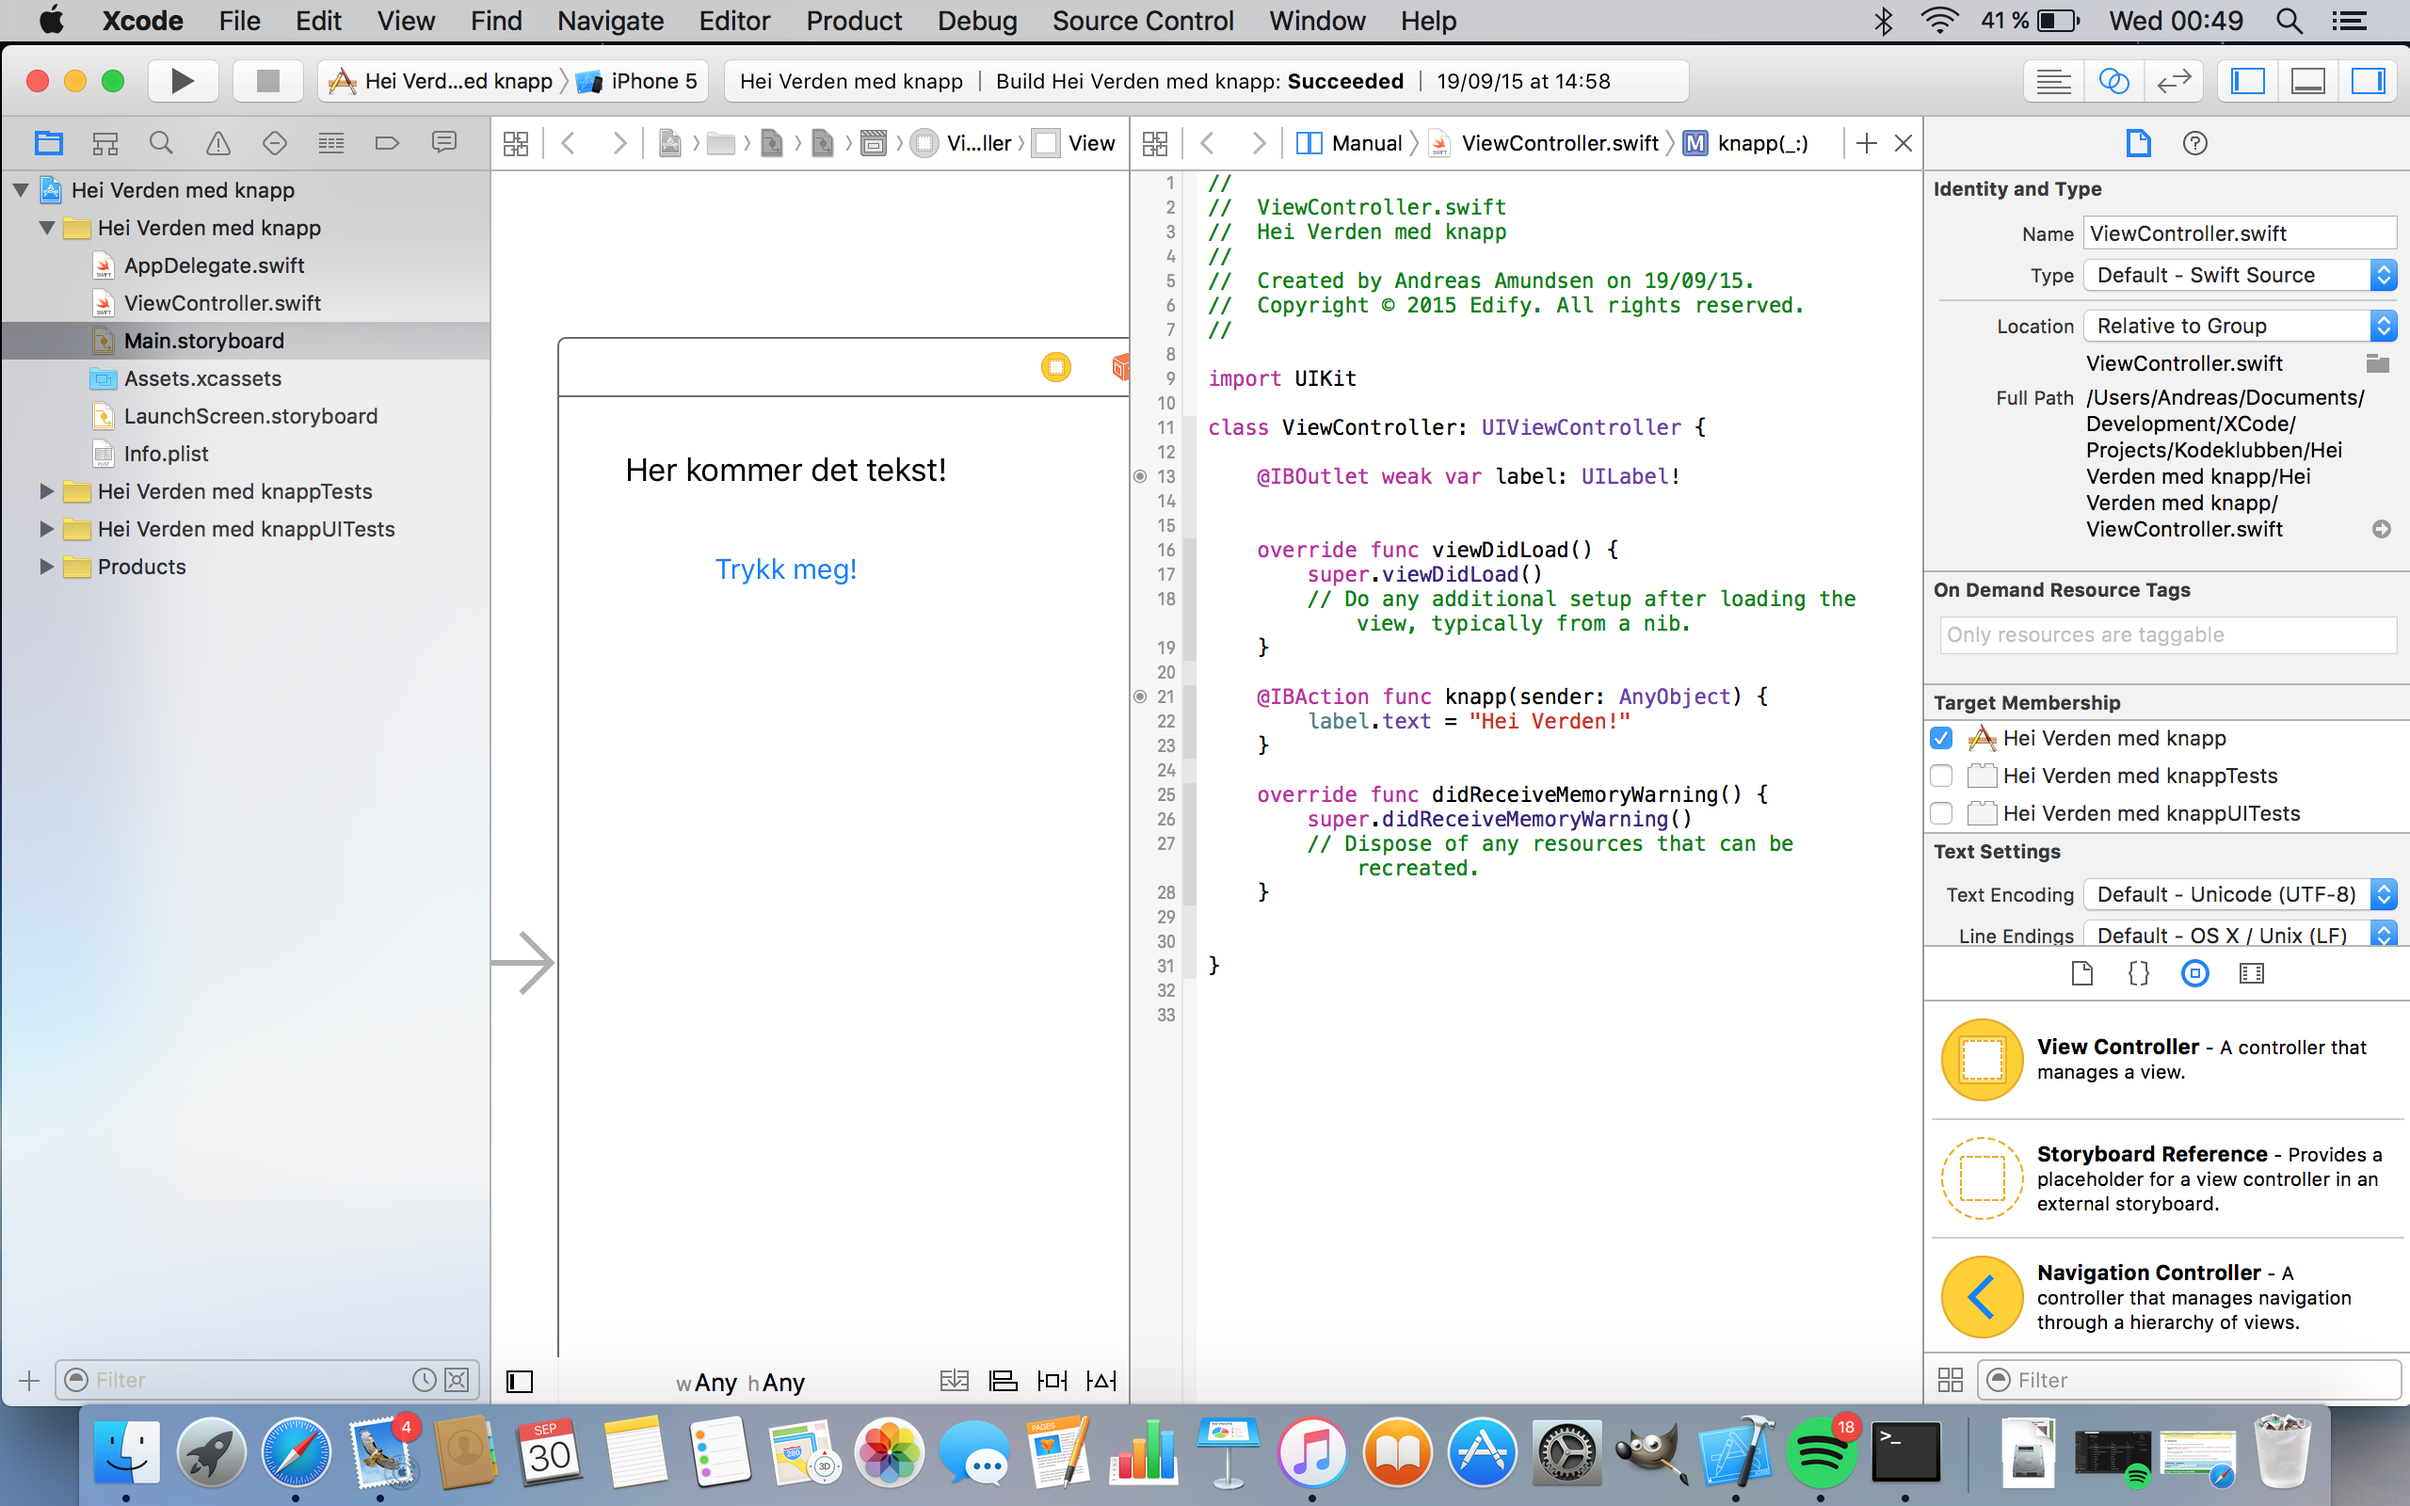
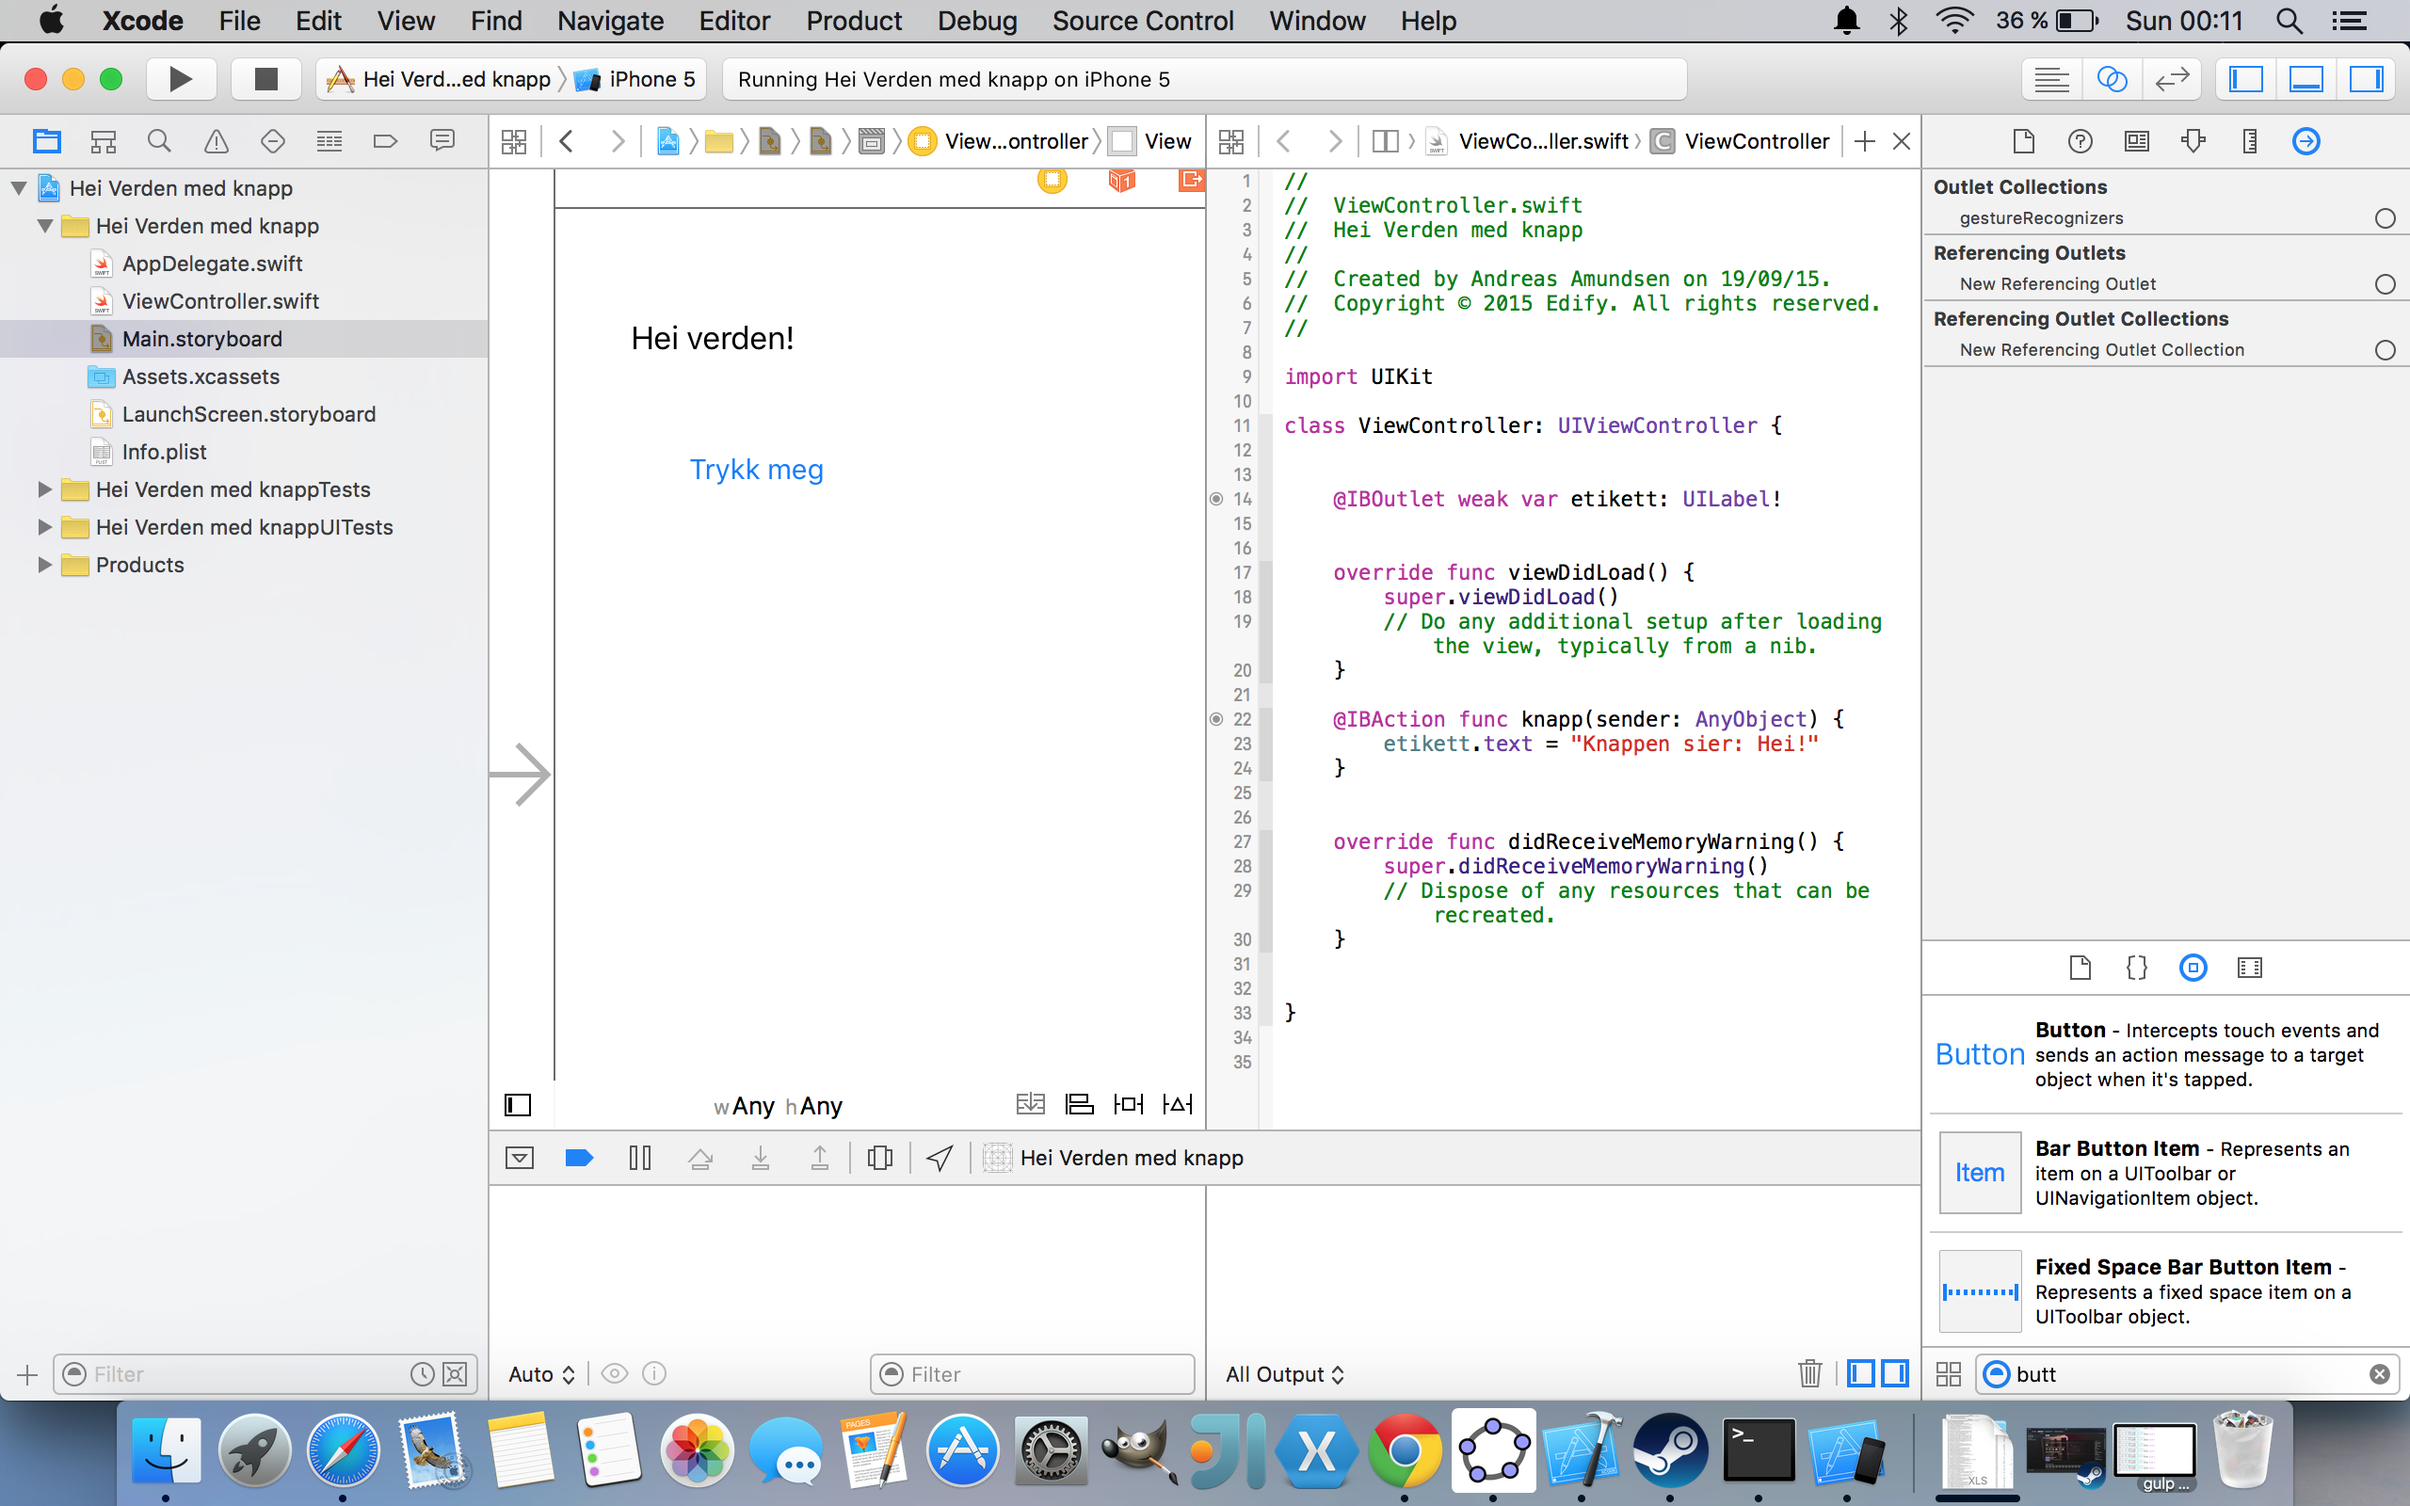
Changed images
Updated images so it matches the text

diff --git a/src/swift/hei_verden/hei_verden.md b/src/swift/hei_verden/hei_verden.md
@@ -69,9 +69,9 @@ Vi skal nå sørge for at ved å trykke på en knapp, vil `Label` endre seg. For
 
 + I tillegg til å dra inn en `Label` i `Main.Storyboard`, skal vi legge til en `Button`. En `Button` kan vi trykke på og kjøre kode knyttet til knappen. Du legger til en `Button` på samme måte som du gjorde med `Label`
 
-+ Ha `Main.Storyboard`i Xcode vinduet valgt, og trykk på de to sirklene øverst i høyre hjørnet i Xcode. Vinduet som dukker opp til venstre viser koden knyttet til en `ViewController` som er den som kontrollerer hvordan app-skjermen oppfører seg. Det er her hvor selve kodingen foregår.
++ Ha `Main.Storyboard`i Xcode vinduet valgt, og trykk på de to sirklene øverst i høyre hjørnet i Xcode. Vinduet som dukker opp til venstre viser koden knyttet til en `ViewController`, som er den som kontrollerer hvordan app-skjermen oppfører seg. Det er her hvor selve kodingen foregår.
 
-+ Venstreklikk på `Button` i `Main.Storyboard`. Hold `ctrl` nede og venstreklikk og dra mot høyre. Dra streken til linjen over der hvor det står `override func didReceiveMemoryWarning()`. Endre `Connection` til å være en `Action`, og gi den navnet `knapp` (du kan velge navnet selv, men det er enklere å følge instruksene nedenfor om du bruker `knapp`).
++ Venstreklikk på `Button` i `Main.Storyboard`. Hold `ctrl` nede mens du venstreklikker og dra mot høyre. Dra streken til linjen over der hvor det står `override func didReceiveMemoryWarning()`. Endre `Connection` til å være en `Action`, og gi den navnet `knapp` (du kan velge navnet selv, men det er enklere å følge instruksene nedenfor om du bruker `knapp`).
 
 + Venstreklikk på `Label` i `Main.Storyboard`. Hold `ctrl`nede og venstreklikk og dra streken til mellom `override func viewDidLoad()` og `class ViewController: UIViewController {`. `Connection` lar du være `Outlet`, og sett navn til `etikett`.
 
@@ -92,12 +92,13 @@ Det er viktig å slippe strekene eksakt som det står i de to stegene over! Diss
     ```
     etikett.text = "Knappen sier: Hei!"
     ```
-
+    
+    
     mellom `{` og `}` der du slapp knappen i koden (`func knapp`). 
 
 + Kjør appen som du lærte i Steg 2 ved å enten klikke på den svarte pilen øverst i hjørnet eller trykke `cmd + r`.
 
-+ Klikk på knappen og observer hva som skjer! Endret `Label` seg til teksten du skrev i `etikett.text = "Knappen sier: Hei!"`?
++ Klikk på knappen og observer hva som skjer! Endret `Label` seg til teksten du skrev i `etikett.text = "Knappen sier: Hei!"`? Hvis etikketen ikke viser hele `Knappen sier: Hei!"`, må du endre størrelsen på `Label`. Klarer du å gjøre det selv?
 
     ![](change_label.png)
 
